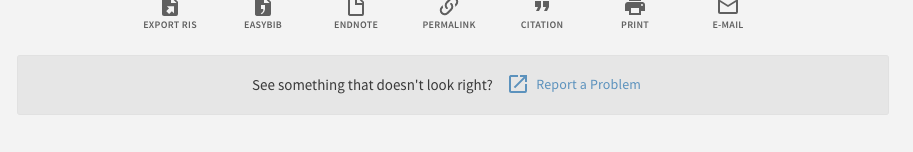
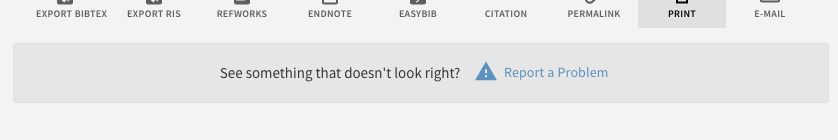
(#9) refactor as component

diff --git a/dist/module.js b/dist/module.js
@@ -2,16 +2,20 @@
 
 angular.module('reportProblem', []);
 
-angular.module('reportProblem').component('prmActionListAfter', {
-  template: '<div ng-if=\'show\' class=\'bar filter-bar layout-align-center-center layout-row margin-top-medium\' layout=\'row\' layout-align=\'center center\'>\n        <span class=\'margin-right-small\'>{{ message }}</span>\n        <a ng-href=\'{{ link }}\' target=\'_blank\'>\n            <button class=\'button-with-icon zero-margin md-button md-button-raised md-primoExplore-theme md-ink-ripple\' type=\'button\' aria-label=\'Report a Problem\' style=\'color: #5c92bd;\'>\n                <prm-icon icon-type=\'svg\' svg-icon-set=\'primo-ui\' icon-definition=\'open-in-new\'></prm-icon>\n                <span style=\'text-transform: none;\'>{{ button }}</span>\n                <div class=\'md-ripple-container\'></div>\n            </button>\n        </a>\n    </div>',
-  controller: ['$scope', '$location', '$httpParamSerializer', 'reportProblemOptions', function ($scope, $location, $httpParamSerializer, reportProblemOptions) {
-    $scope.message = reportProblemOptions.message;
-    $scope.button = reportProblemOptions.button;
-    $scope.show = $location.path() === '/fulldisplay' || $location.path() === '/openurl';
-    $scope.link = reportProblemOptions.base + $httpParamSerializer($location.search());
+angular.module('reportProblem').component('ocaReportProblem', {
+  bindings: {
+    messageText: '@',
+    buttonText: '@',
+    reportUrl: '@'
+  },
+  template: '\n      <div ng-if="$ctrl.show" class="bar filter-bar layout-align-center-center layout-row margin-top-medium" layout="row" layout-align="center center">\n          <span class="margin-right-small">{{$ctrl.messageText}}</span>\n          <a ng-href="{{$ctrl.targetUrl}}" target="_blank">\n              <button class="button-with-icon zero-margin md-button md-button-raised md-primoExplore-theme" type="button" aria-label="Report a Problem" style="color: #5c92bd;">\n                  <prm-icon icon-type="svg" svg-icon-set="action" icon-definition="ic_report_problem_24px"></prm-icon>\n                  <span style="text-transform: none;">{{$ctrl.buttonText}}</span>\n              </button>\n          </a>\n      </div>',
+  controller: ['$location', '$httpParamSerializer', function ($location, $httpParamSerializer) {
+    this.messageText = this.messageText || 'See something that doesn\'t look right?';
+    this.buttonText = this.buttonText || 'Report a Problem';
+    this.showLocations = ['/fulldisplay', '/openurl'];
+    this.$onInit = function () {
+      this.targetUrl = this.reportUrl + $httpParamSerializer($location.search());
+      this.show = this.showLocations.includes($location.path());
+    };
   }]
-}).value('reportProblemOptions', {
-  message: 'See something that doesn\'t look right?',
-  button: 'Report a Problem',
-  base: 'http://my.library.edu/reportproblem.php?'
 });

diff --git a/test/unit/ocaReportProblem.component.spec.js b/test/unit/ocaReportProblem.component.spec.js
@@ -1,0 +1,70 @@
+describe('prmActionListAfter component', function () {
+
+  var $componentController
+  var $location
+
+  beforeEach(module('reportProblem'))
+
+  beforeEach(inject(function(_$componentController_, _$location_, _$httpParamSerializer_) {
+    $componentController = _$componentController_
+    $location = _$location_
+    $httpParamSerializer = _$httpParamSerializer_
+  }))
+
+  it('should set the message text if it is provided', function() {
+    var bindings = { messageText: 'new text' }
+    var ctrl = $componentController('ocaReportProblem', null, bindings)
+    expect(ctrl.messageText).toBe(bindings.messageText)
+  })
+
+  it('should set the button text if it is provided', function() {
+    var bindings = { buttonText: 'new text' }
+    var ctrl = $componentController('ocaReportProblem', null, bindings)
+    expect(ctrl.buttonText).toBe(bindings.buttonText)
+  })
+
+  it('should use the default message text if none is provided', function() {
+    var ctrl = $componentController('ocaReportProblem')
+    expect(ctrl.messageText).toBe('See something that doesn\'t look right?')
+  })
+
+  it('should use the default button text if none is provided', function() {
+    var ctrl = $componentController('ocaReportProblem')
+    expect(ctrl.buttonText).toBe('Report a Problem')
+  })
+
+  it('should generate a link using all the parameters from the url', function () {
+    var bindings = { reportUrl: 'http://my.library.edu/reportproblem.php?' }
+    var params = {
+      docid: 'CP71196983610001451',
+      context: 'L',
+      vid: 'LCC'
+    }
+    spyOn($location, 'path').and.returnValue('/fulldisplay')
+    spyOn($location, 'search').and.returnValue(params)
+    var ctrl = $componentController('ocaReportProblem', null, bindings)
+    ctrl.$onInit()
+    expect(ctrl.targetUrl).toBe(bindings.reportUrl + $httpParamSerializer(params))
+  })
+
+  it('should show up on a fulldisplay page', function () {
+    spyOn($location, 'path').and.returnValue('/fulldisplay')
+    var ctrl = $componentController('ocaReportProblem')
+    ctrl.$onInit()
+    expect(ctrl.show).toBe(true)
+  })
+
+  it('should show up on a services page', function () {
+    spyOn($location, 'path').and.returnValue('/openurl')
+    var ctrl = $componentController('ocaReportProblem')
+    ctrl.$onInit()
+    expect(ctrl.show).toBe(true)
+  })
+
+  it('should not show up if on the brief result page', function () {
+    spyOn($location, 'path').and.returnValue('/search')
+    var ctrl = $componentController('ocaReportProblem')
+    ctrl.$onInit()
+    expect(ctrl.show).toBe(false)
+  })
+})

diff --git a/src/js/ocaReportProblem.component.js b/src/js/ocaReportProblem.component.js
@@ -1,0 +1,32 @@
+/* eslint-disable max-len */
+angular
+  .module('reportProblem')
+  .component('ocaReportProblem', {
+    bindings: {
+      messageText: '@',
+      buttonText: '@',
+      reportUrl: '@',
+    },
+    template: `
+      <div ng-if="$ctrl.show" class="bar filter-bar layout-align-center-center layout-row margin-top-medium" layout="row" layout-align="center center">
+          <span class="margin-right-small">{{$ctrl.messageText}}</span>
+          <a ng-href="{{$ctrl.targetUrl}}" target="_blank">
+              <button class="button-with-icon zero-margin md-button md-button-raised md-primoExplore-theme" type="button" aria-label="Report a Problem" style="color: #5c92bd;">
+                  <prm-icon icon-type="svg" svg-icon-set="action" icon-definition="ic_report_problem_24px"></prm-icon>
+                  <span style="text-transform: none;">{{$ctrl.buttonText}}</span>
+              </button>
+          </a>
+      </div>`,
+    controller: ['$location', '$httpParamSerializer', function($location, $httpParamSerializer) {
+      this.messageText = this.messageText || 'See something that doesn\'t look right?'
+      this.buttonText = this.buttonText || 'Report a Problem'
+      this.showLocations = [
+        '/fulldisplay', // details view
+        '/openurl', // services page (link resolver)
+      ]
+      this.$onInit = function() {
+        this.targetUrl = this.reportUrl + $httpParamSerializer($location.search())
+        this.show = this.showLocations.includes($location.path())
+      }
+    }],
+  })

diff --git a/test/bootstrap.js b/test/bootstrap.js
@@ -1,3 +1,3 @@
 var app = angular.module('viewCustom', ['reportProblem'])
 
-// app.component('prmActionListAfter', {template: '<oca-report-problem />'})
+app.component('prmActionListAfter', {template: '<oca-report-problem report-url="http://my.library.edu/reportproblem.php?" />'})

diff --git a/karma.conf.js b/karma.conf.js
@@ -6,6 +6,7 @@ module.exports = function(config) {
     files: [
       'node_modules/angular/angular.js',
       'node_modules/angular-mocks/angular-mocks.js',
+      'node_modules/babel-polyfill/browser.js',
       'dist/module.js',
       'test/unit/*.spec.js',
     ],

diff --git a/README.md b/README.md
@@ -1,6 +1,5 @@
 # primo-explore-report-problem
 
-![Build Status](https://api.travis-ci.org/alliance-pcsg/primo-explore-report-problem.svg)
 [![npm](https://img.shields.io/npm/v/primo-explore-report-problem.svg)](https://www.npmjs.com/package/primo-explore-report-problem)
 
 ## Features
@@ -21,8 +20,10 @@ A banner with a link to report a problem/bug appears below the "send to" actions
     ```
 4. Install this package:
     ```
-    npm install primo-explore-report-problem --save-dev
+    npm install primo-explore-report-problem
     ```
+
+alternatively, just copy `dist/module.js` into your package's `custom.js` file.
 
 ## Usage
 Once this package is installed, add `reportProblem` as a dependency for your custom module definition.
@@ -31,28 +32,24 @@ Once this package is installed, add `reportProblem` as a dependency for your cus
 var app = angular.module('viewCustom', ['reportProblem'])
 ```
 
-Note: If you're using the `--browserify` build option, you will need to first import the module with:
-
-```javascript
-import 'primo-explore-report-problem';
+Then, enable the customization by embedding it in the `prmActionListAfter` hook:
+```js
+app.component('prmActionListAfter', {template: '<oca-report-problem />'})
 ```
 
-You can configure the banner by passing a configuration object. All properties are required.
+#### Configuration
+You can configure the banner by passing in attributes to the `oca-report-problem` element. The `report-url` property is required; the others will default to the values shown in the screenshot.
 
 | name      | type         | usage                                                                                   |
 |-----------|--------------|-----------------------------------------------------------------------------------------|
-| `message` | string       | banner text displayed next to the button.                                               |
-| `button`  | string       | text displayed on the button itself.                                                    |
-| `base`    | string (url) | base URL for your 'report a problem' page, to which all of the search parameters will be sent |
+| `message-text` | string       | banner text displayed next to the button.                                               |
+| `button-text`  | string       | text displayed on the button itself.                                                    |
+| `report-url`    | string (url) | base URL for your 'report a problem' page, to which all of the search parameters will be sent |
 
-The code below adds a banner similar to the above image.
+The line below would add a banner with different button and message texts.
 
 ```js
-app.constant('reportProblemOptions', {
-  message: "See something that doesn't look right?",
-  button: "Report a Problem",
-  base: "http://my.library.edu/reportproblem.php?"
-})
+app.component('prmActionListAfter', {template: '<oca-report-problem report-url="http://my.library.edu/reportproblem.php?" message-text="Want to report a problem?" button-text="Submit report" />'})
 ```
 
 When the button is clicked, if the user was viewing a page like: `https://primo.lclark.edu/primo-explore/fulldisplay?docid=CP71139633100001451&context=L&vid=......`
